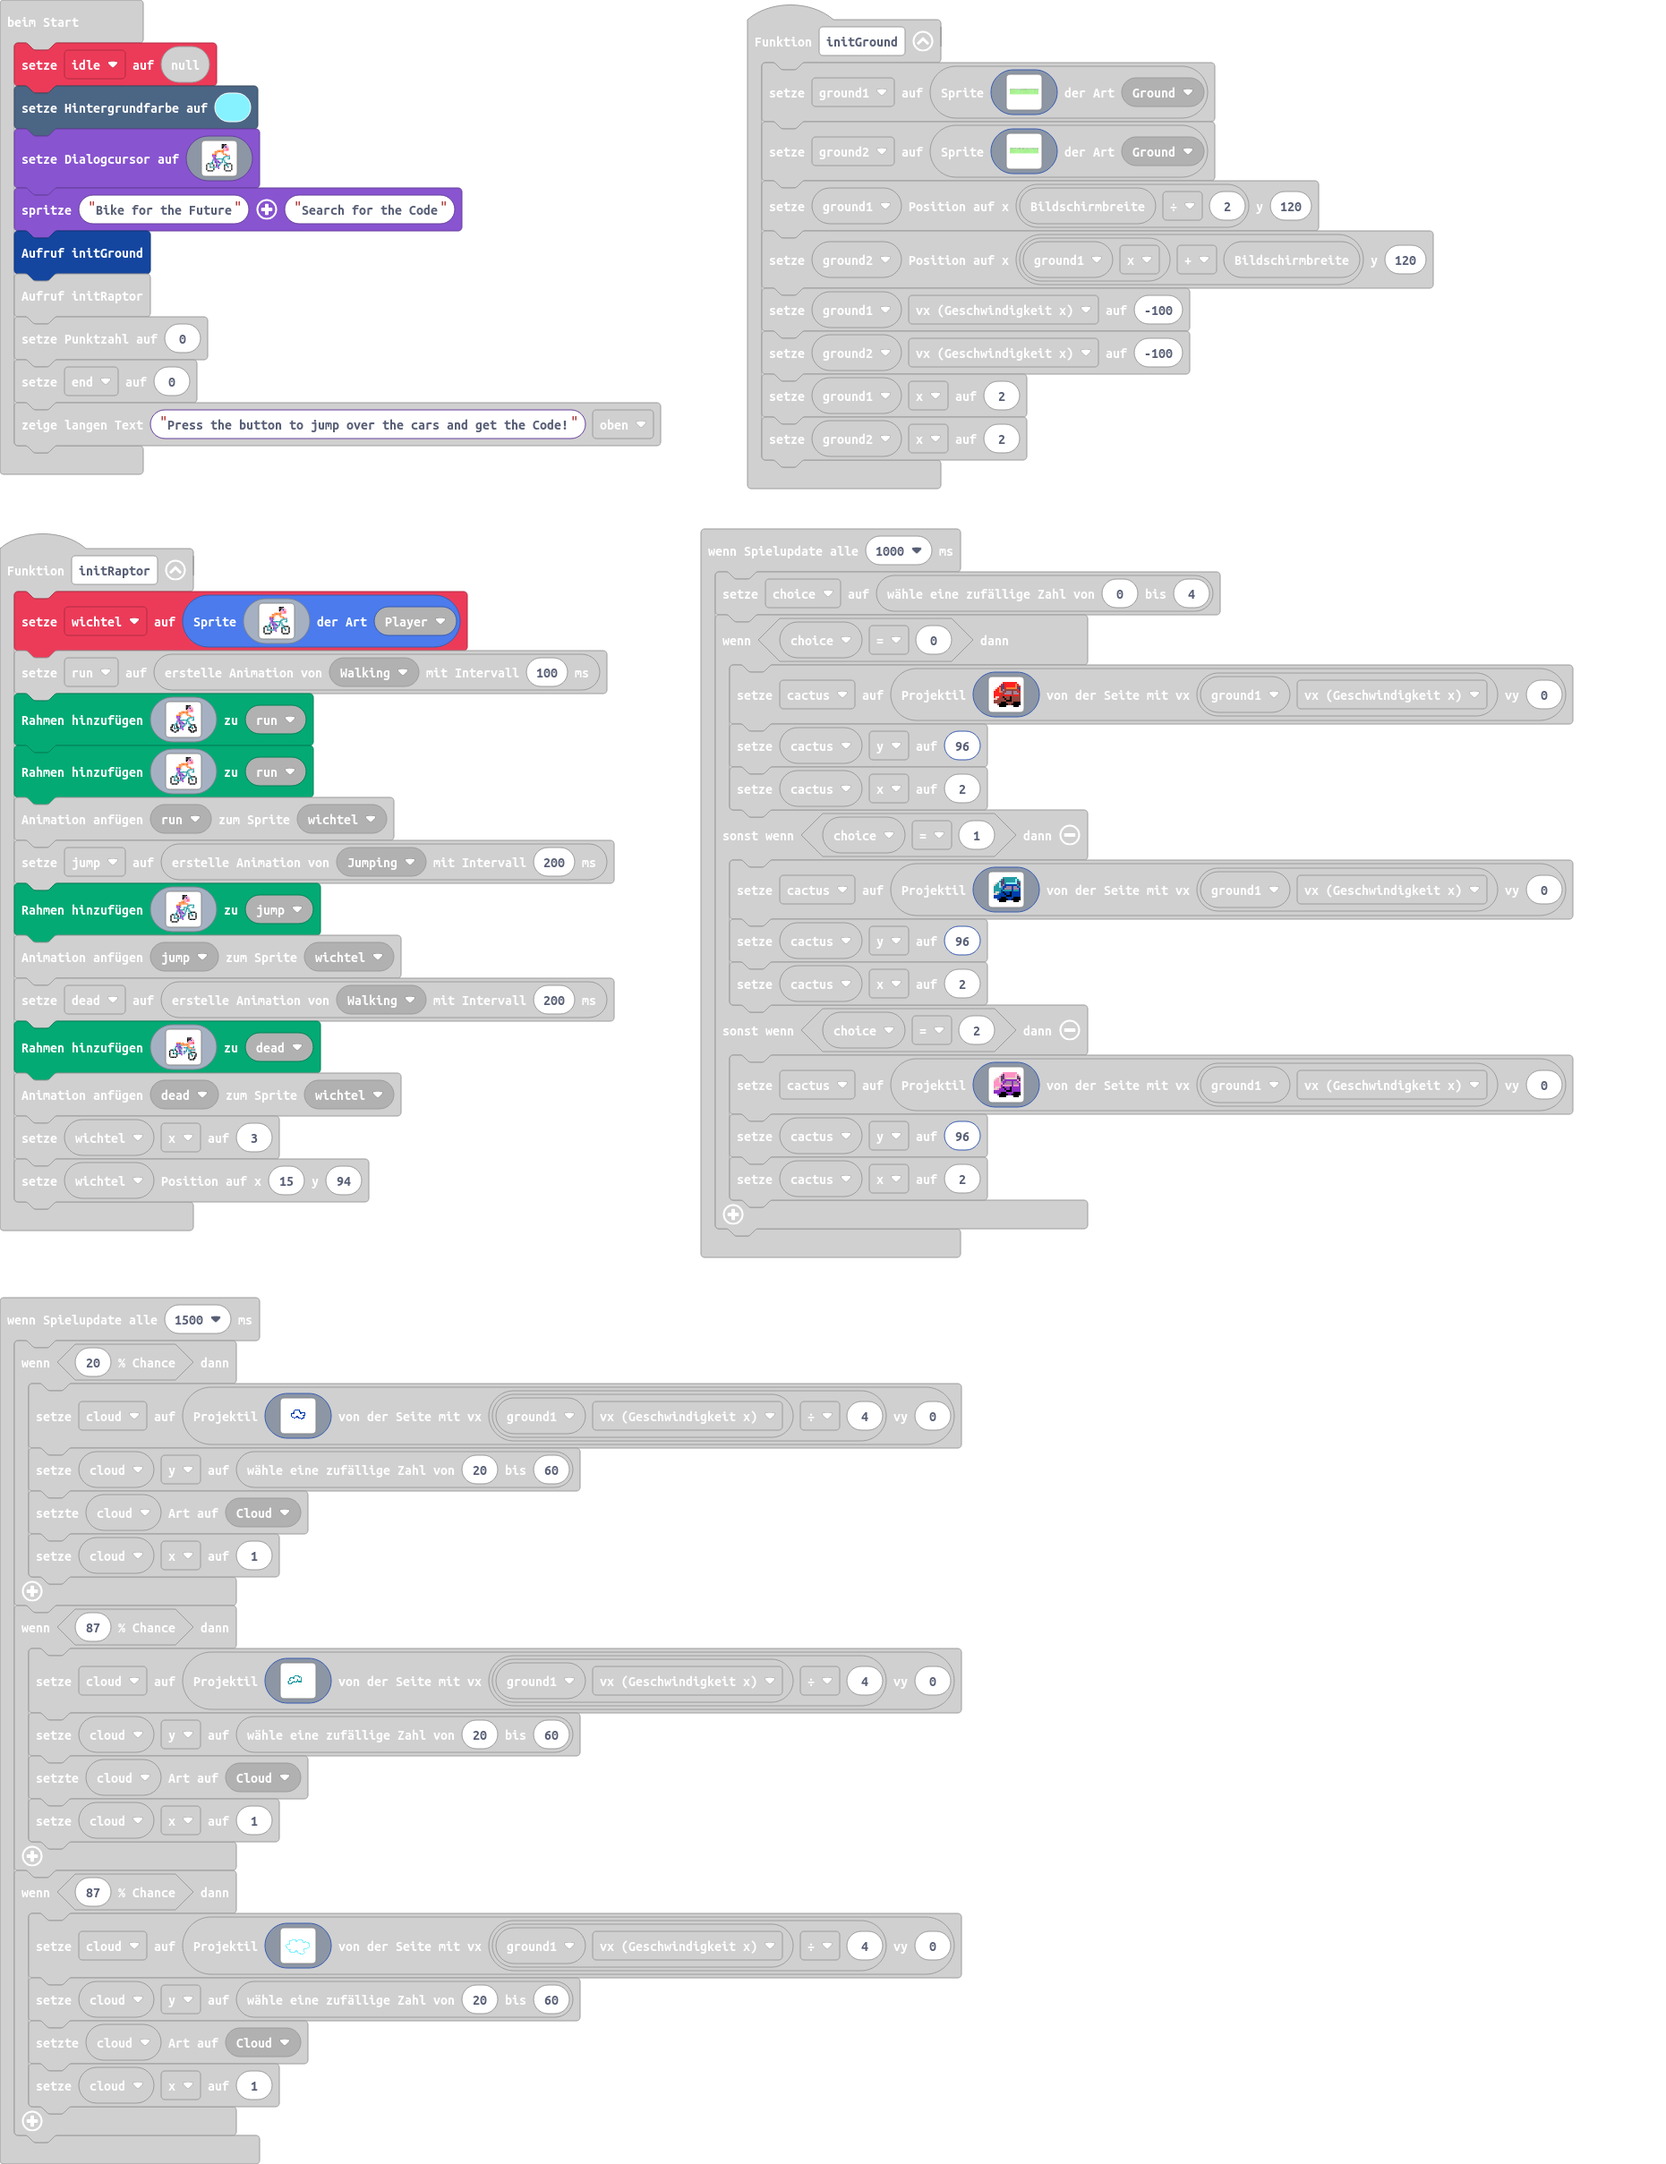
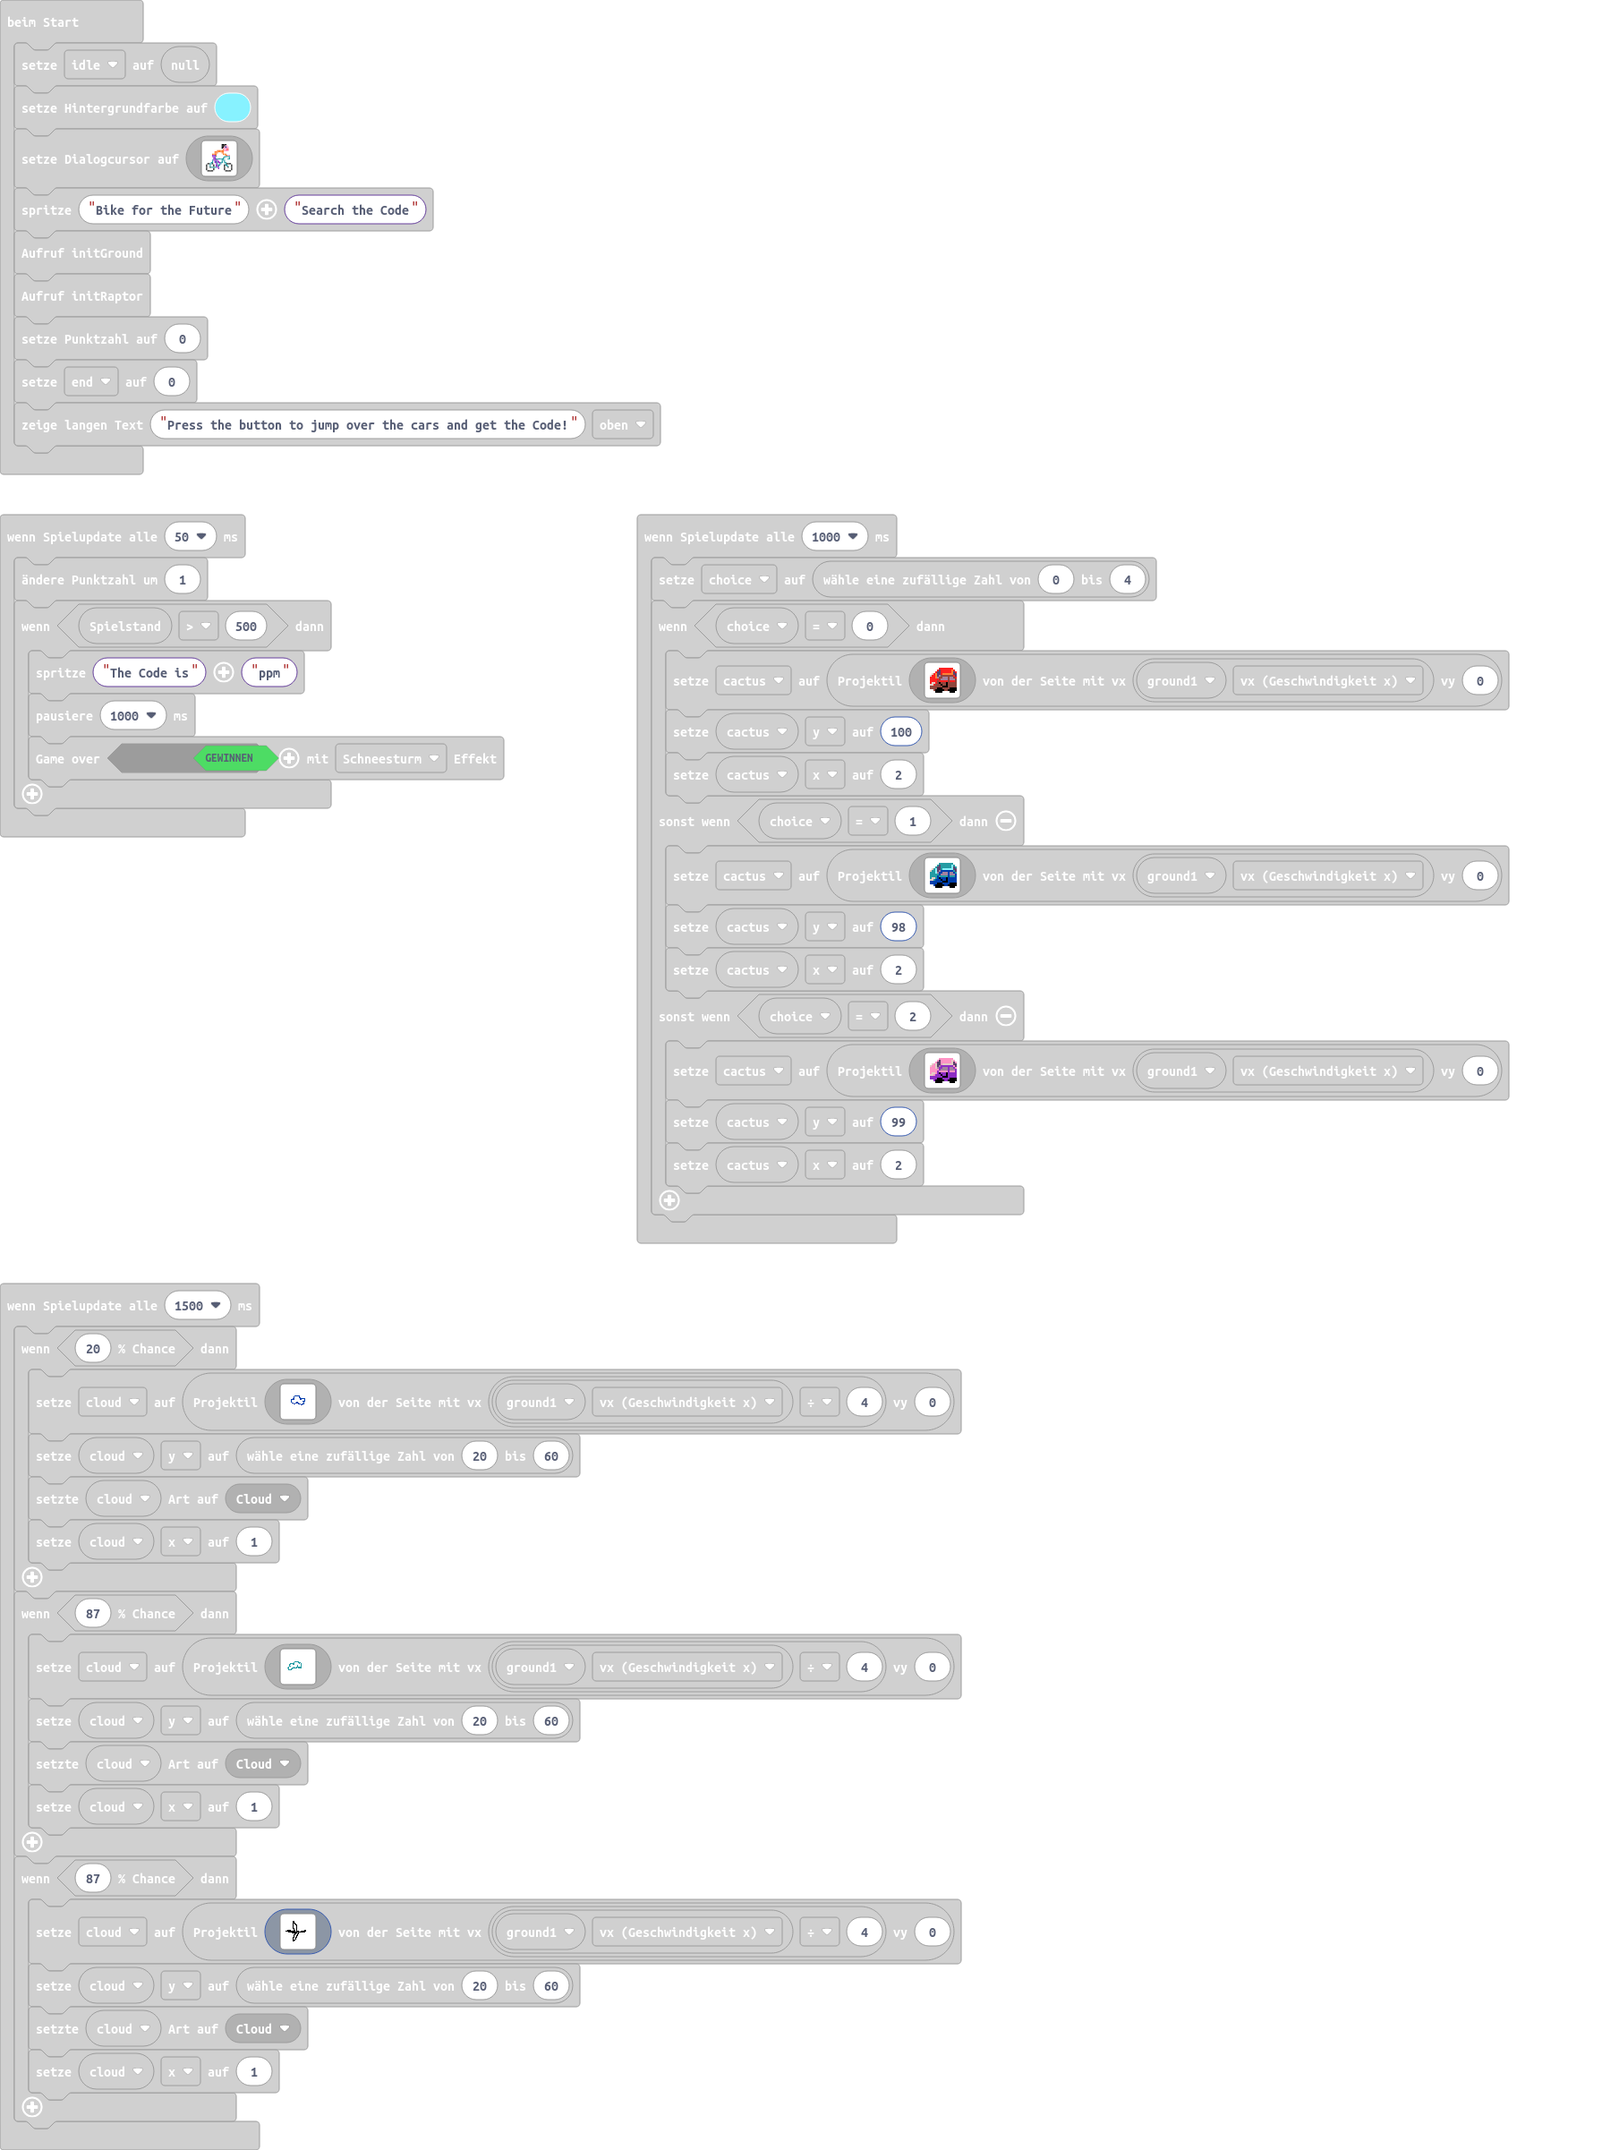
Aktualisiere main.blocks, main.ts

Changed region(s): [[0.0, 0.0, 0.9525, 1.0]]

diff --git a/main.ts b/main.ts
@@ -274,7 +274,7 @@ game.setDialogCursor(img`
     11fffff1111111111fffff11
     111111111111111111111111
     `)
-game.splash("Bike for the Future", "Search for the Code")
+game.splash("Bike for the Future", "Search the Code")
 initGround()
 initRaptor()
 info.setScore(0)
@@ -294,7 +294,7 @@ game.onUpdate(function () {
 game.onUpdateInterval(50, function () {
     info.changeScoreBy(1)
     if (info.score() > 500) {
-        game.splash("Das Codewort lautet", "Morozko")
+        game.splash("The Code is", "ppm")
         pause(1000)
         game.over(true, effects.blizzard)
     }
@@ -324,7 +324,7 @@ game.onUpdateInterval(1000, function () {
             . . . . f f f f . . . . f f f . 
             . . . . . . . . . . . . . . . . 
             `, ground1.vx, 0)
-        cactus.y = 96
+        cactus.y = 100
         cactus.z = 2
     } else if (choice == 1) {
         cactus = sprites.createProjectileFromSide(img`
@@ -345,7 +345,7 @@ game.onUpdateInterval(1000, function () {
             . . . . f f f f . . . . f f f . 
             . . . . . . . . . . . . . . . . 
             `, ground1.vx, 0)
-        cactus.y = 96
+        cactus.y = 98
         cactus.z = 2
     } else if (choice == 2) {
         cactus = sprites.createProjectileFromSide(img`
@@ -366,7 +366,7 @@ game.onUpdateInterval(1000, function () {
             . . . . f f f f . . . . f f f . 
             . . . . . . . . . . . . . . . . 
             `, ground1.vx, 0)
-        cactus.y = 96
+        cactus.y = 99
         cactus.z = 2
     }
 })
@@ -455,29 +455,29 @@ game.onUpdateInterval(1500, function () {
             ................................
             ................................
             ................................
-            ................................
-            ................................
-            ................................
-            ................................
-            ................................
-            .........99999..99999...........
-            ......999....999....99..........
-            ......9......99......9.99.......
-            ......9..............999.999....
-            ......9....................99...
-            ...9999.....................9...
-            ..9.........................9...
-            ..9.........................9...
-            ..99........................9...
-            ...9......................99....
-            ....9.................9999......
-            .....999..............9.........
-            ......9......99.......9.........
-            ......99....9999......9.........
-            .......999999..9.......9........
-            ................999...9.........
-            ..................9999..........
-            ................................
+            ..........ff....................
+            ..........ff....................
+            ..........fff...................
+            ..........f.ff..................
+            ..........f..ff.................
+            ..........f...f.................
+            ..........f...f.................
+            ..........f...f.................
+            ..........ff..f.................
+            ...........f..f.................
+            ....ffff...ff.f........ff.......
+            ..fffffffffff.fff..ffffff.......
+            .....fffffffffffffffffff........
+            .........ffffff.f...............
+            ............ff.ff...............
+            ...........ff..f................
+            ...........f..ff................
+            ...........f..f.................
+            ..........ff.ff.................
+            ..........f..f..................
+            ..........f..f..................
+            ..........fff...................
+            ..........ff....................
             ................................
             ................................
             ................................
